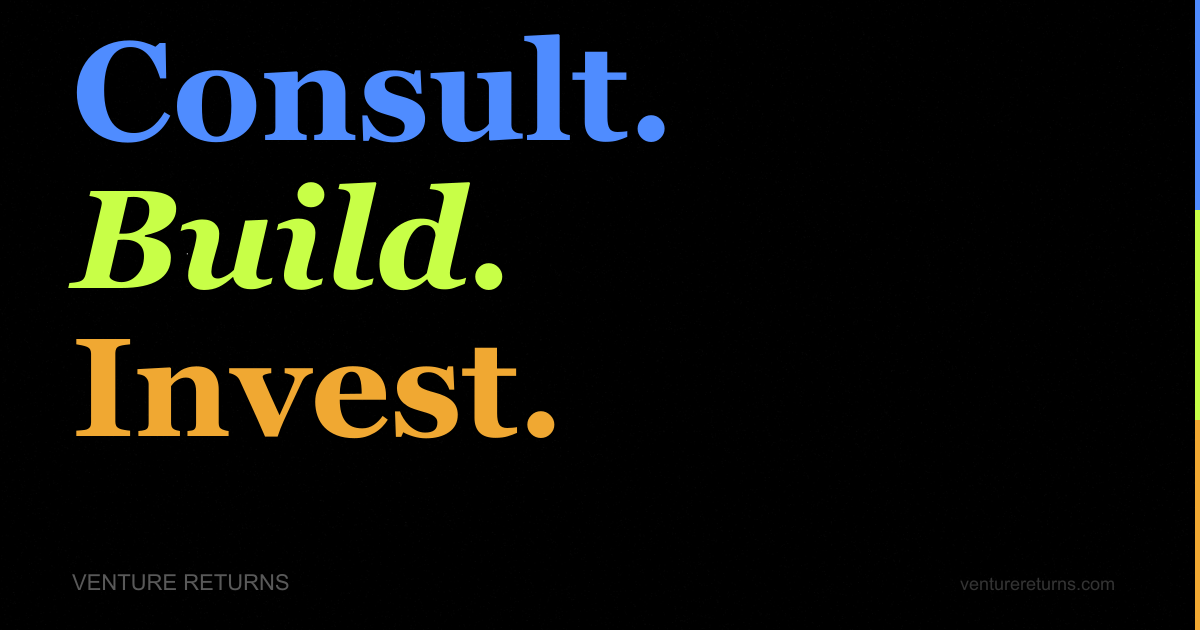
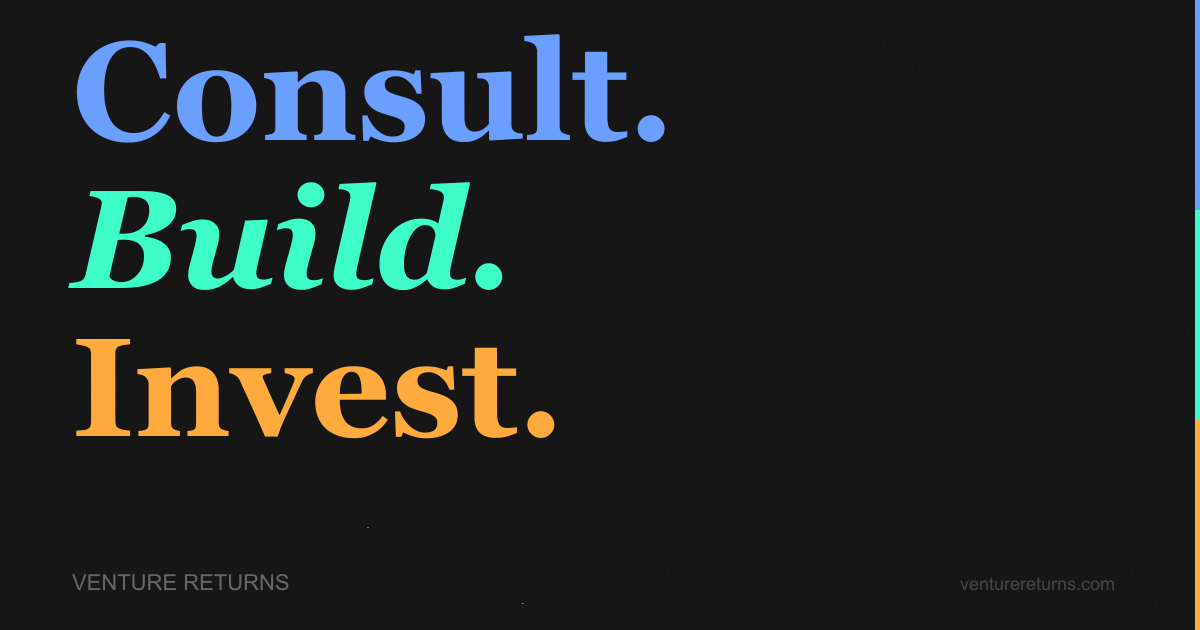
chore: redesign accent palette + lighten background
Background: #000 → #161616 / #1e1e1e / #272727 (charcoal, less harsh)

Accent colors rebalanced for cohesion:
- --blue:  #4f8cff → #6b9fff  (softer periwinkle-electric)
- --lime:  #c8ff47 → #3dfcc7  (electric mint; acid lime clashed with both)
- --amber: #f0a832 → #ffaa3c  (richer warm amber)

Hardcoded old-palette rgba values updated to match new tokens:
- .pr-status.live: old lime → new mint rgba
- #investing li::before: old amber → new amber rgba

Regenerate og-image.png with new palette + background.

Changed region(s): [[0.0617, 0.0302, 0.555, 0.2413], [0.0617, 0.2714, 0.4317, 0.4825], [0.9867, 0.0, 1.0, 0.6635]]

diff --git a/styles.css b/styles.css
@@ -1,16 +1,16 @@
 /* ── TOKENS ─────────────────────────────────────────────── */
 :root {
-  --bg:    #0d0d0d;
-  --bg-2:  #141414;
-  --bg-3:  #1c1c1c;
+  --bg:    #161616;
+  --bg-2:  #1e1e1e;
+  --bg-3:  #272727;
   --fg:    #fff;
   --fg-2:  rgba(255,255,255,.5);
-  --fg-3:  rgba(255,255,255,.46);  /* min 4.5:1 on #000 */
+  --fg-3:  rgba(255,255,255,.46);  /* min 4.5:1 on #161616 */
   --fg-4:  rgba(255,255,255,.1);   /* decorative only — never use for readable text */
-  --rule:  rgba(255,255,255,.07);
-  --blue:  #4f8cff;
-  --lime:  #c8ff47;
-  --amber: #f0a832;
+  --rule:  rgba(255,255,255,.08);
+  --blue:  #6b9fff;
+  --lime:  #3dfcc7;
+  --amber: #ffaa3c;
 
   --nav-h: 60px;
   --max:   1200px;
@@ -428,13 +428,13 @@ a.product-row:hover .pr-name { color:var(--fg); }
 
 /* Studio → lime */
 #studio .mono-label   { color:var(--lime); }
-.pr-status.live       { color:rgba(200,255,71,.7); }
+.pr-status.live       { color:rgba(61,252,199,.75); }
 a.product-row:hover .pr-name { color:var(--lime); }
 
 /* Investing → amber */
 #investing .mono-label   { color:var(--amber); }
 #investing .invest-num   { color:var(--amber); }
-#investing .invest-col li::before { color:rgba(240,168,50,.45); }
+#investing .invest-col li::before { color:rgba(255,170,60,.45); }
 
 /* ── REVEAL ─────────────────────────────────────────────── */
 .reveal {